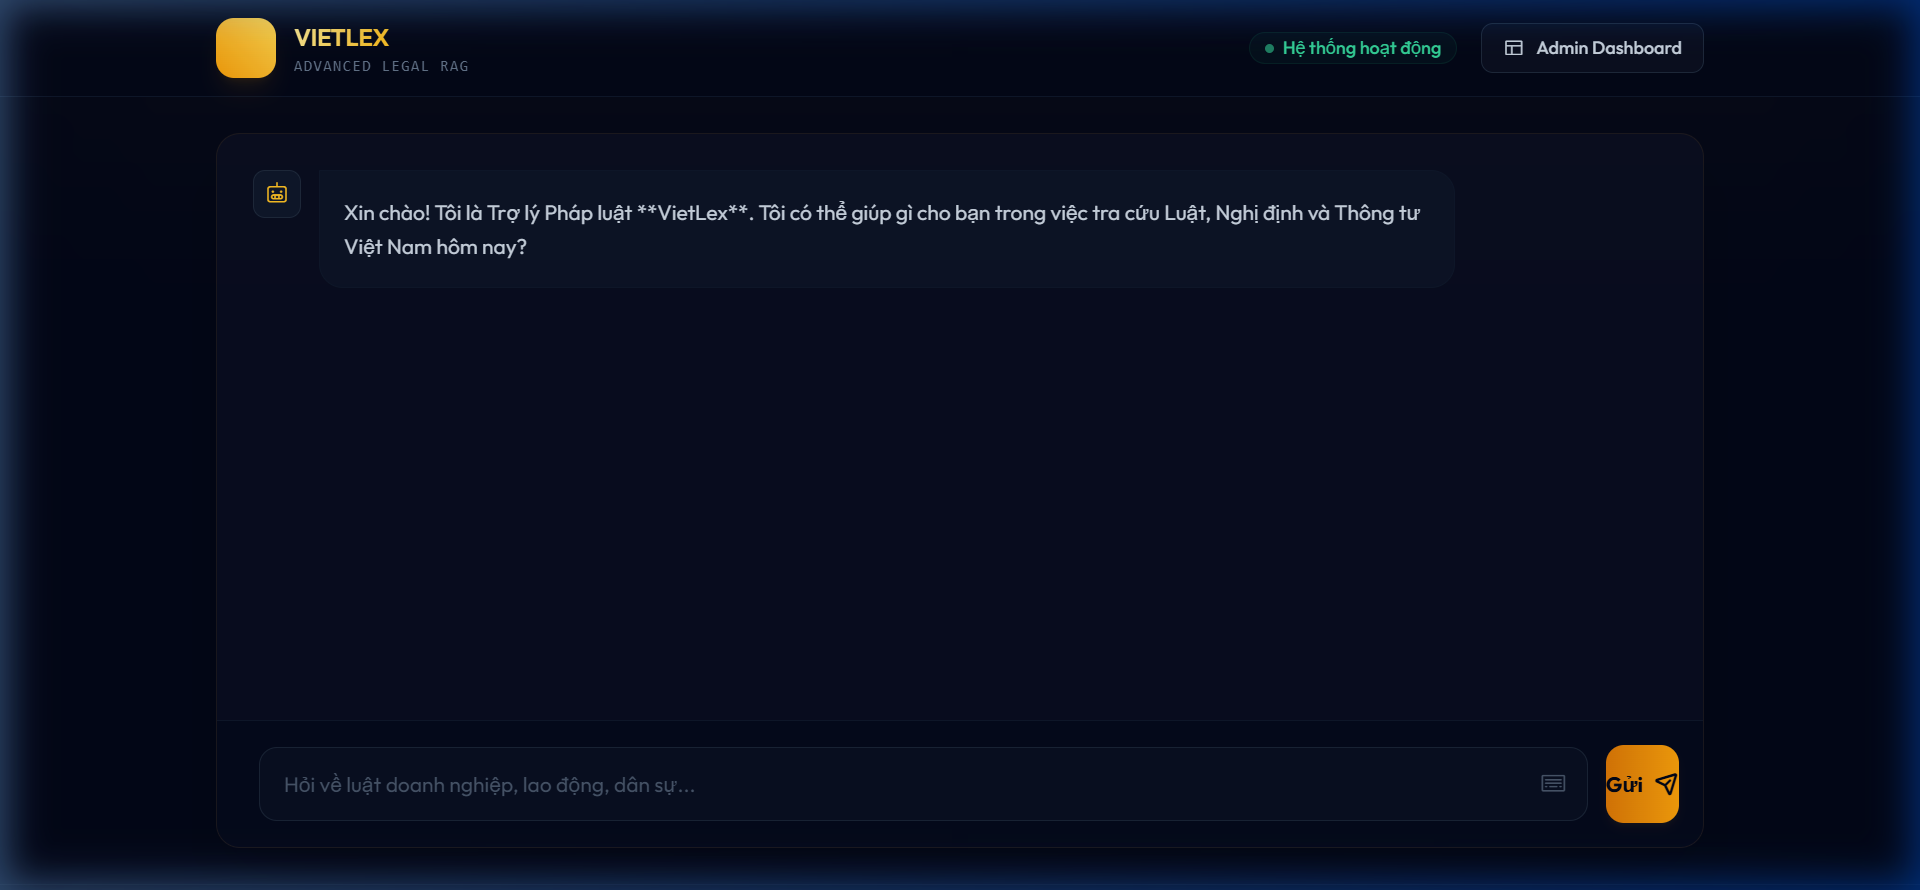
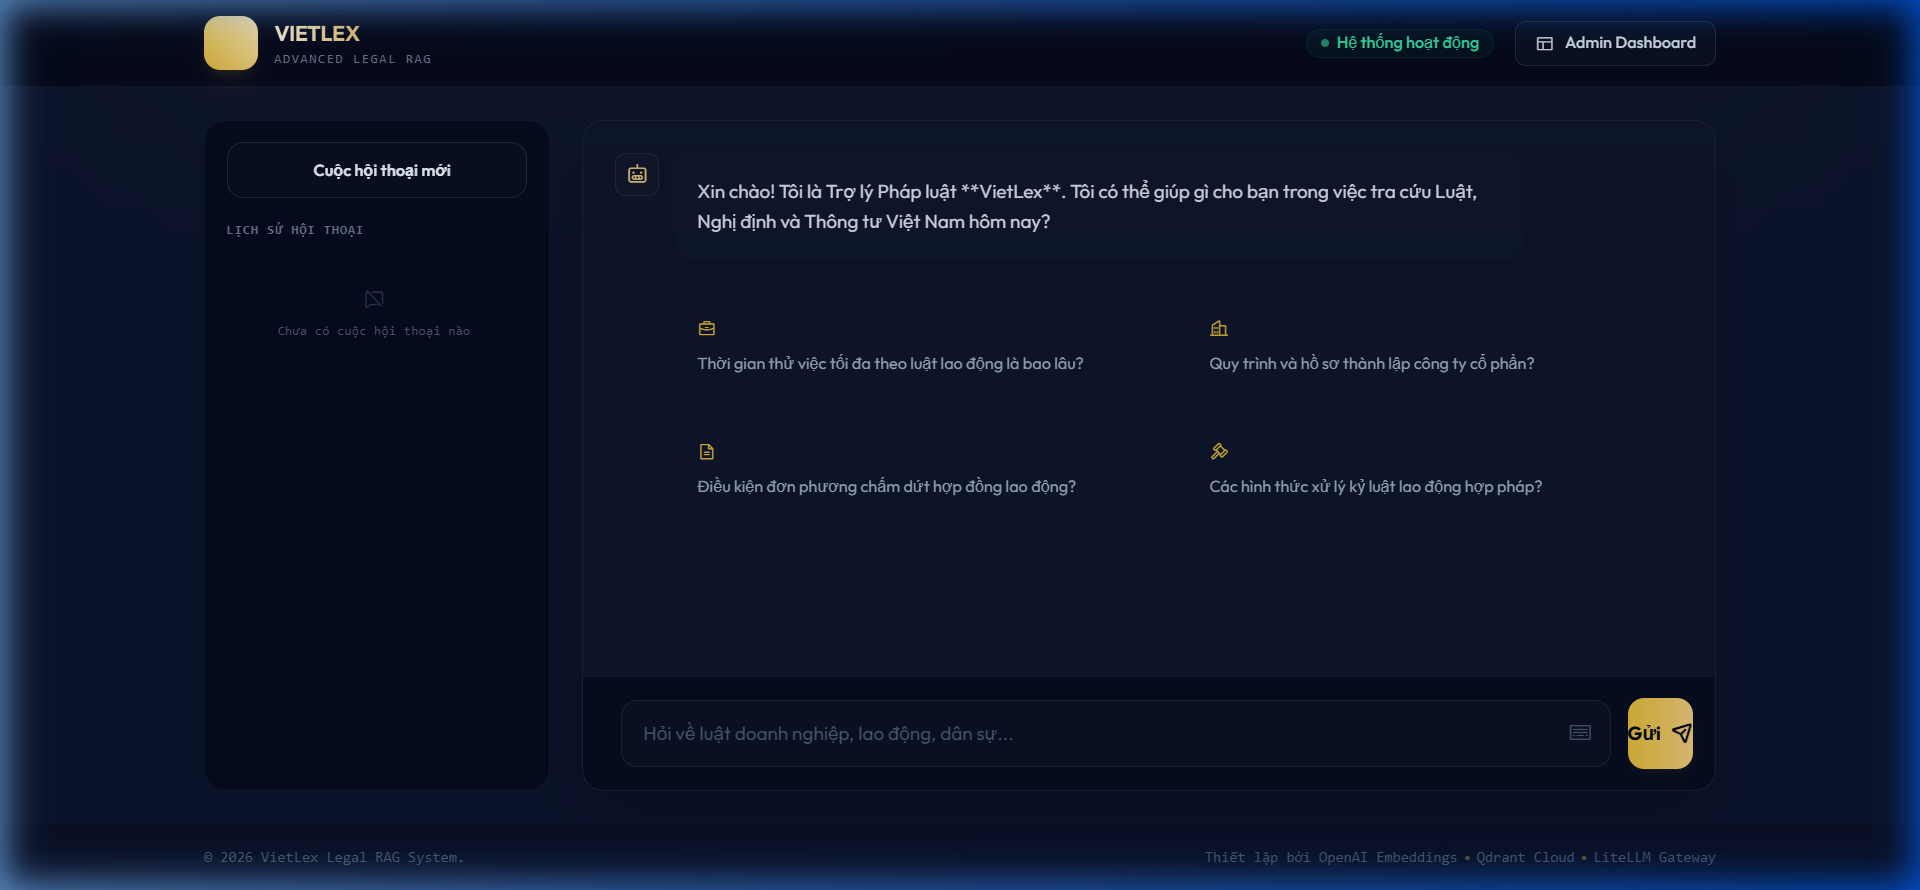
feat: fix README Mermaid render, improve send button UI, and update screenshots
Fix Mermaid diagram syntax in README.md to avoid rendering error on GitHub. Adjust Send button dimensions and padding in index.html to prevent text squishing. Update README screenshots with the new Royal Navy & Gold UI.

diff --git a/app/templates/index.html b/app/templates/index.html
@@ -222,7 +222,7 @@
                         </div>
                     </div>
                     <button type="submit" 
-                            class="bg-gradient-to-r from-gold-500 to-gold-400 hover:from-gold-600 hover:to-gold-500 text-slate-950 font-bold px-5.5 py-3.5 rounded-xl text-sm transition-all duration-200 shadow-md shadow-gold-500/5 active:scale-95 inline-flex items-center space-x-2">
+                            class="bg-gradient-to-r from-gold-500 to-gold-400 hover:from-gold-600 hover:to-gold-500 text-slate-950 font-bold px-6 py-3.5 rounded-xl text-sm transition-all duration-200 shadow-md shadow-gold-500/5 active:scale-95 inline-flex items-center space-x-2 whitespace-nowrap shrink-0">
                         <span>Gửi</span>
                         <i class="ph ph-paper-plane-tilt text-base font-bold"></i>
                     </button>

diff --git a/app/ingestion/vlegal_indexer.py b/app/ingestion/vlegal_indexer.py
@@ -1,0 +1,165 @@
+import uuid
+import requests
+import time
+from datasets import load_dataset, get_dataset_config_names
+from tqdm import tqdm
+from qdrant_client import QdrantClient
+from qdrant_client.models import PointStruct, SparseVector
+from pyvi import ViTokenizer
+from app.ingestion.indexer import text_to_sparse_vector
+from app.config import get_settings
+
+def run_vlegal_ingestion():
+    settings = get_settings()
+    
+    print("Fetching configs for 'datht/vlegal'...")
+    try:
+        configs = get_dataset_config_names("datht/vlegal")
+        configs = [c for c in configs if c != "default"]
+    except Exception as e:
+        print(f"Error fetching configs: {e}")
+        # Fallback to known configs of VLegal-Bench
+        configs = [f"task_{i}_{j}" for i in range(1, 6) for j in range(1, 6)]
+        configs = [c for c in configs if c not in ["task_4_4", "task_4_5", "task_5_5"]]
+        
+    print(f"Configs to load: {configs}")
+    
+    unique_contexts = set()
+    possible_cols = ["context", "ground_truth_context", "reference", "doc", "text", "document", "legal_text", "evidence", "content", "court_judgement", "grounding"]
+    
+    for config in configs:
+        # Skip default if it has no data or causes issues, let's try to load all
+        print(f"Loading config '{config}'...")
+        try:
+            dataset = load_dataset("datht/vlegal", config)
+            for split_name in dataset.keys():
+                split_data = dataset[split_name]
+                print(f"  Split '{split_name}' has {len(split_data)} rows.")
+                
+                # Check for columns
+                active_col = None
+                for col in possible_cols:
+                    if col in split_data.column_names:
+                        active_col = col
+                        break
+                
+                if active_col:
+                    print(f"  Found column '{active_col}' for context.")
+                    for row in split_data:
+                        val = row.get(active_col)
+                        if isinstance(val, list):
+                            for v in val:
+                                if v and isinstance(v, str):
+                                    unique_contexts.add(v.strip())
+                        elif isinstance(val, str) and val:
+                            unique_contexts.add(val.strip())
+                else:
+                    print(f"  Columns: {split_data.column_names}. Trying fallback search.")
+                    for row in split_data:
+                        for k, val in row.items():
+                            if "context" in k or "reference" in k or "doc" in k:
+                                if isinstance(val, list):
+                                    for v in val:
+                                        if v and isinstance(v, str):
+                                            unique_contexts.add(v.strip())
+                                elif isinstance(val, str) and val:
+                                    unique_contexts.add(val.strip())
+        except Exception as e:
+            print(f"  Error loading config '{config}': {e}")
+            
+    unique_contexts = sorted(list(unique_contexts))
+    total_contexts = len(unique_contexts)
+    print(f"Extracted {total_contexts} unique legal text contexts from 'datht/vlegal'.")
+    
+    if total_contexts == 0:
+        print("No contexts found to index!")
+        return
+
+    # Connect to Qdrant Cloud
+    print(f"Connecting to Qdrant Cloud at {settings.QDRANT_URL}...")
+    qdrant_client = QdrantClient(
+        url=settings.QDRANT_URL,
+        api_key=settings.QDRANT_API_KEY,
+        timeout=30.0
+    )
+    
+    collection_name = "vietlex_knowledge_base"
+    
+    # Ensure collection exists
+    if not qdrant_client.collection_exists(collection_name):
+        print(f"Collection '{collection_name}' does not exist! Running creation logic...")
+        from qdrant_client.models import Distance, VectorParams, SparseVectorParams
+        qdrant_client.create_collection(
+            collection_name=collection_name,
+            vectors_config=VectorParams(size=768, distance=Distance.COSINE),
+            sparse_vectors_config={
+                "sparse-text": SparseVectorParams()
+            }
+        )
+
+    # Embedding generation & Upserting via OmniGate
+    base_url = settings.OMNIGATE_BASE_URL.rstrip('/')
+    embedding_url = f"{base_url}/v1/embeddings" if not base_url.endswith('/v1') else f"{base_url}/embeddings"
+    headers = {
+        "Content-Type": "application/json",
+        "Authorization": f"Bearer {settings.LITELLM_MASTER_KEY}"
+    }
+
+    # Ingest in batches of 128 to optimize API latency
+    batch_size = 128
+    print(f"Ingesting {total_contexts} points to Qdrant...")
+    
+    for i in tqdm(range(0, total_contexts, batch_size), desc="Ingesting VLegal"):
+        batch_texts = unique_contexts[i:i+batch_size]
+        
+        payload = {
+            "model": "legal-embedding-model",
+            "input": batch_texts
+        }
+        
+        # Get embeddings with exponential backoff on 429
+        for attempt in range(6):
+            response = requests.post(embedding_url, headers=headers, json=payload)
+            if response.status_code == 429:
+                sleep_time = (2 ** attempt) + 2
+                time.sleep(sleep_time)
+                continue
+            break
+        
+        try:
+            response.raise_for_status()
+            embeddings_data = response.json()["data"]
+        except Exception as e:
+            print(f"Error fetching embeddings at batch {i}: {e}. Response: {response.text if 'response' in locals() else 'None'}")
+            continue
+        
+        batch_points = []
+        for text, item in zip(batch_texts, embeddings_data):
+            vector = item["embedding"][:768]
+            point_id = str(uuid.uuid5(uuid.NAMESPACE_DNS, text))
+            
+            segmented = ViTokenizer.tokenize(text)
+            sparse_vec = text_to_sparse_vector(segmented)
+            
+            batch_points.append(PointStruct(
+                id=point_id,
+                vector={
+                    "": vector,
+                    "sparse-text": SparseVector(
+                        indices=sparse_vec["indices"],
+                        values=sparse_vec["values"]
+                    )
+                },
+                payload={"source_text": text}
+            ))
+        
+        # Upsert to Qdrant
+        qdrant_client.upsert(
+            collection_name=collection_name,
+            points=batch_points
+        )
+
+    print("Successfully finished indexing datht/vlegal to Qdrant!")
+
+if __name__ == "__main__":
+    run_vlegal_ingestion()

diff --git a/README.md b/README.md
@@ -46,27 +46,27 @@ The admin panel showcases system stats (Total Queries, Cache Hit Rate, Average R
 
 ```mermaid
 graph TD
-    User([User]) -->|POST /chat| API[FastAPI Endpoints]
-    API -->|1. Redact PII| PII[PII Redactor]
-    PII -->|2. Check Cache| Cache[Semantic Cache Qdrant]
-    Cache -->|Cache Hit| Return[Return Response]
-    Cache -->|Cache Miss| InputRails[Input Guardrails]
-    InputRails -->|Blocked| Block[Return Safety Message]
-    InputRails -->|Safe| RAG[Advanced Retrieval]
+    User["User"] -->|POST /chat| API["FastAPI Endpoints"]
+    API -->|1. Redact PII| PII["PII Redactor"]
+    PII -->|2. Check Cache| Cache["Semantic Cache Qdrant"]
+    Cache -->|Cache Hit| Return["Return Response"]
+    Cache -->|Cache Miss| InputRails["Input Guardrails"]
+    InputRails -->|Blocked| Block["Return Safety Message"]
+    InputRails -->|Safe| RAG["Advanced Retrieval"]
     
-    RAG -->|Query Rewrite| Rewrite[LLM Rewrite]
-    Rewrite -->|Hybrid Search| Qdrant[(Qdrant Cloud)]
-    Qdrant -->|Dense + Sparse PyVi| RRF[RRF Fusion]
-    RRF -->|Top 15 Chunks| Rerank[Cohere Rerank v3]
-    Rerank -->|Top 3 Contexts| Generator[LLM Generator]
+    RAG -->|Query Rewrite| Rewrite["LLM Rewrite"]
+    Rewrite -->|Hybrid Search| Qdrant["Qdrant Cloud"]
+    Qdrant -->|Dense + Sparse PyVi| RRF["RRF Fusion"]
+    RRF -->|Top 15 Chunks| Rerank["Cohere Rerank v3"]
+    Rerank -->|Top 3 Contexts| Generator["LLM Generator"]
     
-    Generator -->|3. Validate Answer| OutputRails[Output Guardrails]
-    OutputRails -->|Hallucination Detected| Fallback[Return Fallback Message]
-    OutputRails -->|Safe| FinalResponse[Final Response]
+    Generator -->|3. Validate Answer| OutputRails["Output Guardrails"]
+    OutputRails -->|Hallucination Detected| Fallback["Return Fallback Message"]
+    OutputRails -->|Safe| FinalResponse["Final Response"]
     
-    FinalResponse -->|4. Save Log| DB[(MongoDB Atlas)]
+    FinalResponse -->|4. Save Log| DB["MongoDB Atlas"]
     FinalResponse -->|5. Update Cache| Cache
-    FinalResponse -->|6. Trigger BG Task| Ragas[Ragas Evaluator]
+    FinalResponse -->|6. Trigger BG Task| Ragas["Ragas Evaluator"]
     Ragas -->|Update Ragas Scores| DB
 ```
 